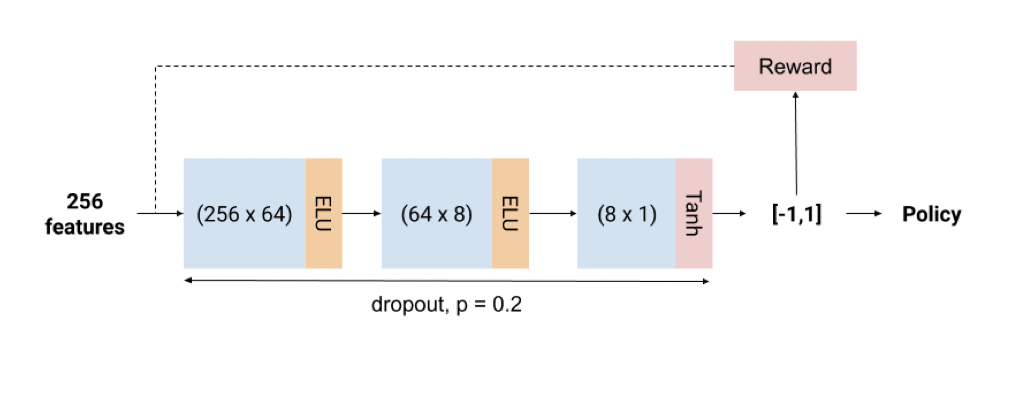
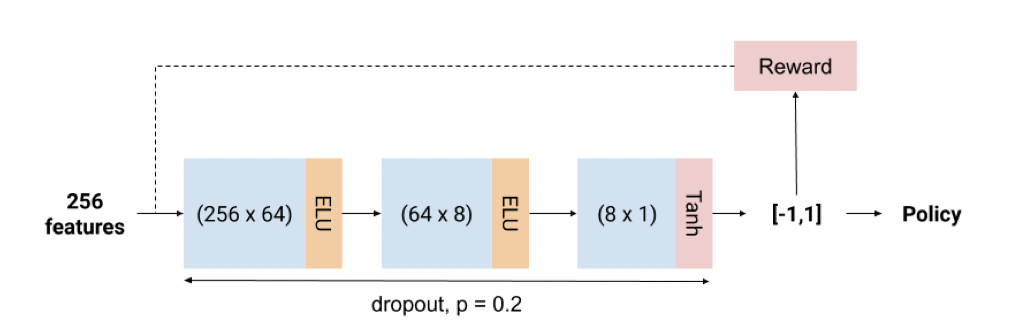
change files

diff --git a/README.md b/README.md
@@ -14,11 +14,11 @@ High-frequency(milisecond) FX trading data provided by Integral. The dataset con
 
 <p align="center">
 <img src="https://github.com/AlexaYuqinD/RL-FX-Trading/blob/master/images/image_0.png" 
- width="250" height="150" />
+ width="250" height="200" />
 <img src="https://github.com/AlexaYuqinD/RL-FX-Trading/blob/master/images/image_1.png" 
- width="250" height="150" />
+ width="250" height="200" />
 <img src="https://github.com/AlexaYuqinD/RL-FX-Trading/blob/master/images/image_2.png" 
- width="250" height="150" />
+ width="250" height="200" />
 </p>
 <p align="center">
 Data Statistics
@@ -26,31 +26,34 @@ Data Statistics
 
 <p align="center">
 <img src="https://github.com/AlexaYuqinD/RL-FX-Trading/blob/master/images/Trainingpipe.png" 
- width="300" height="180" />
+ width="310" height="160" />
 </p>
 <p align="center">
 Training Pipeline
 </p>
+
 ## Direct Reinforcement Learning
+
 <p align="center">
 <img src="https://github.com/AlexaYuqinD/RL-FX-Trading/blob/master/images/drl-algo.PNG" 
- width="450" height="270" />
+ width="600" height="270" />
 </p>
 <p align="center">
 <img src="https://github.com/AlexaYuqinD/RL-FX-Trading/blob/master/images/drl.png" 
- width="560" height="290" />
+ width="560" height="280" />
 </p>
 <p align="center">
 DRL Model Structure
 </p>
 
+
 <p align="center">
 <img src="https://github.com/AlexaYuqinD/RL-FX-Trading/blob/master/images/w1_EURUSD.png" 
- width="250" height="150" />
+ width="250" height="170" />
 <img src="https://github.com/AlexaYuqinD/RL-FX-Trading/blob/master/images/w2_EURUSD.png" 
- width="250" height="150" />
+ width="250" height="170" />
 <img src="https://github.com/AlexaYuqinD/RL-FX-Trading/blob/master/images/w3_EURUSD.png" 
- width="250" height="150" />
+ width="250" height="170" />
 </p>
 <p align="center">
 Experiment Results for DRL on EUR-USD
@@ -59,19 +62,20 @@ Experiment Results for DRL on EUR-USD
 ## Deep Q-Network
 <p align="center">
 <img src="https://github.com/AlexaYuqinD/RL-FX-Trading/blob/master/images/dqn-algo.PNG" 
- width="450" height="270" />
+ width="600" height="270" />
 </p>
 <p align="center">
 <img src="https://github.com/AlexaYuqinD/RL-FX-Trading/blob/master/images/DQN_Model.png" 
- width="600" height="290" />
+ width="500" height="260" />
 </p>
 <p align="center">
 DQN Model Structure
 </p>
 
+
 <p align="center">
 <img src="https://github.com/AlexaYuqinD/RL-FX-Trading/blob/master/images/DQN_result.png" 
- width="600" height="300" />
+ width="600" height="200" />
 </p>
 <p align="center">
 Experiment Results for DQN on AUD-USD
